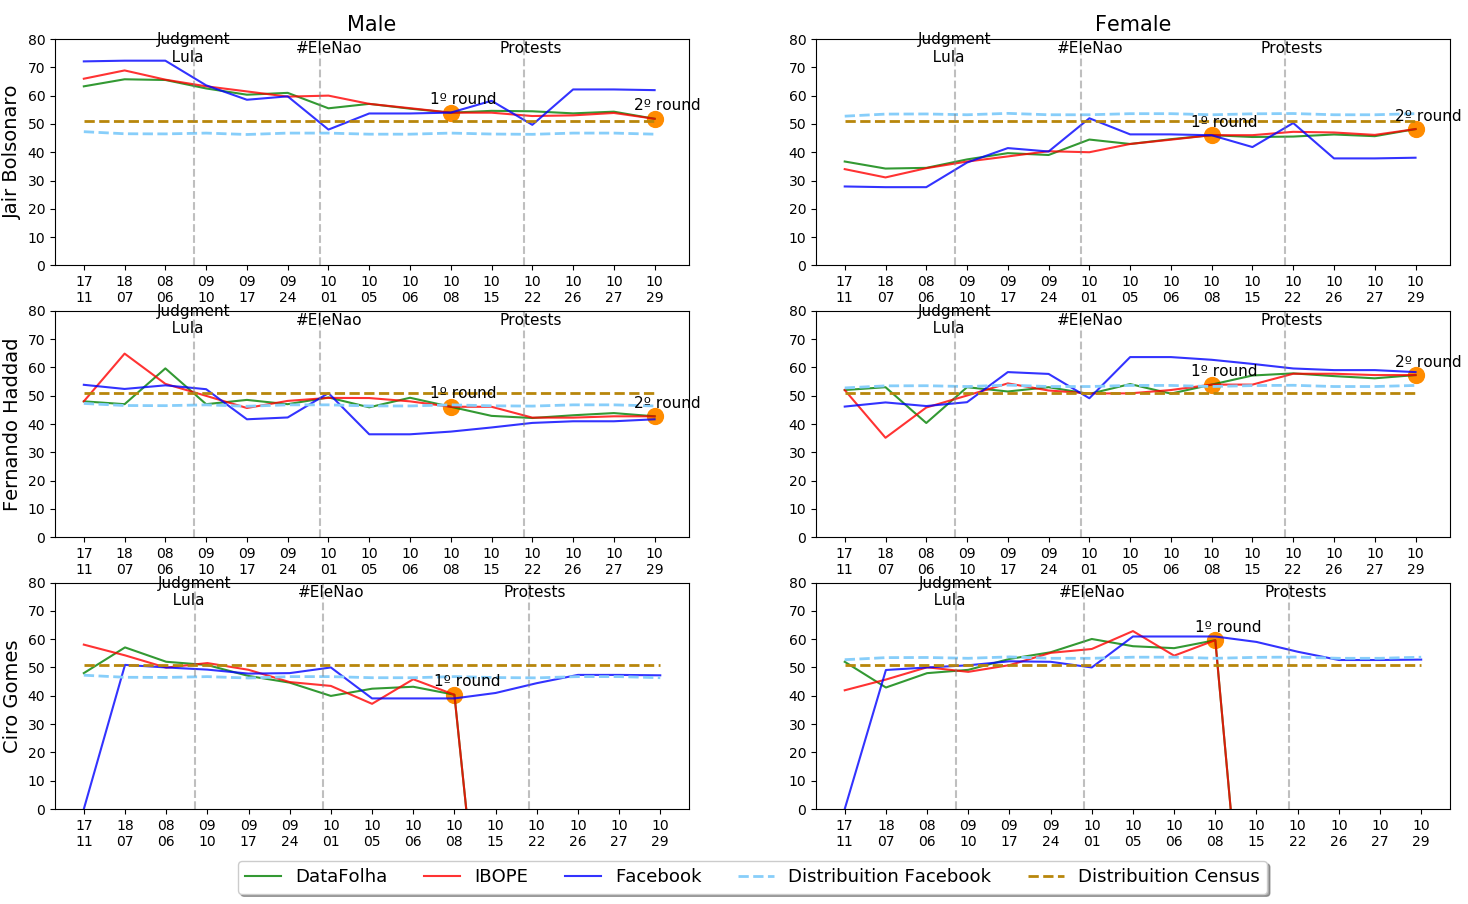
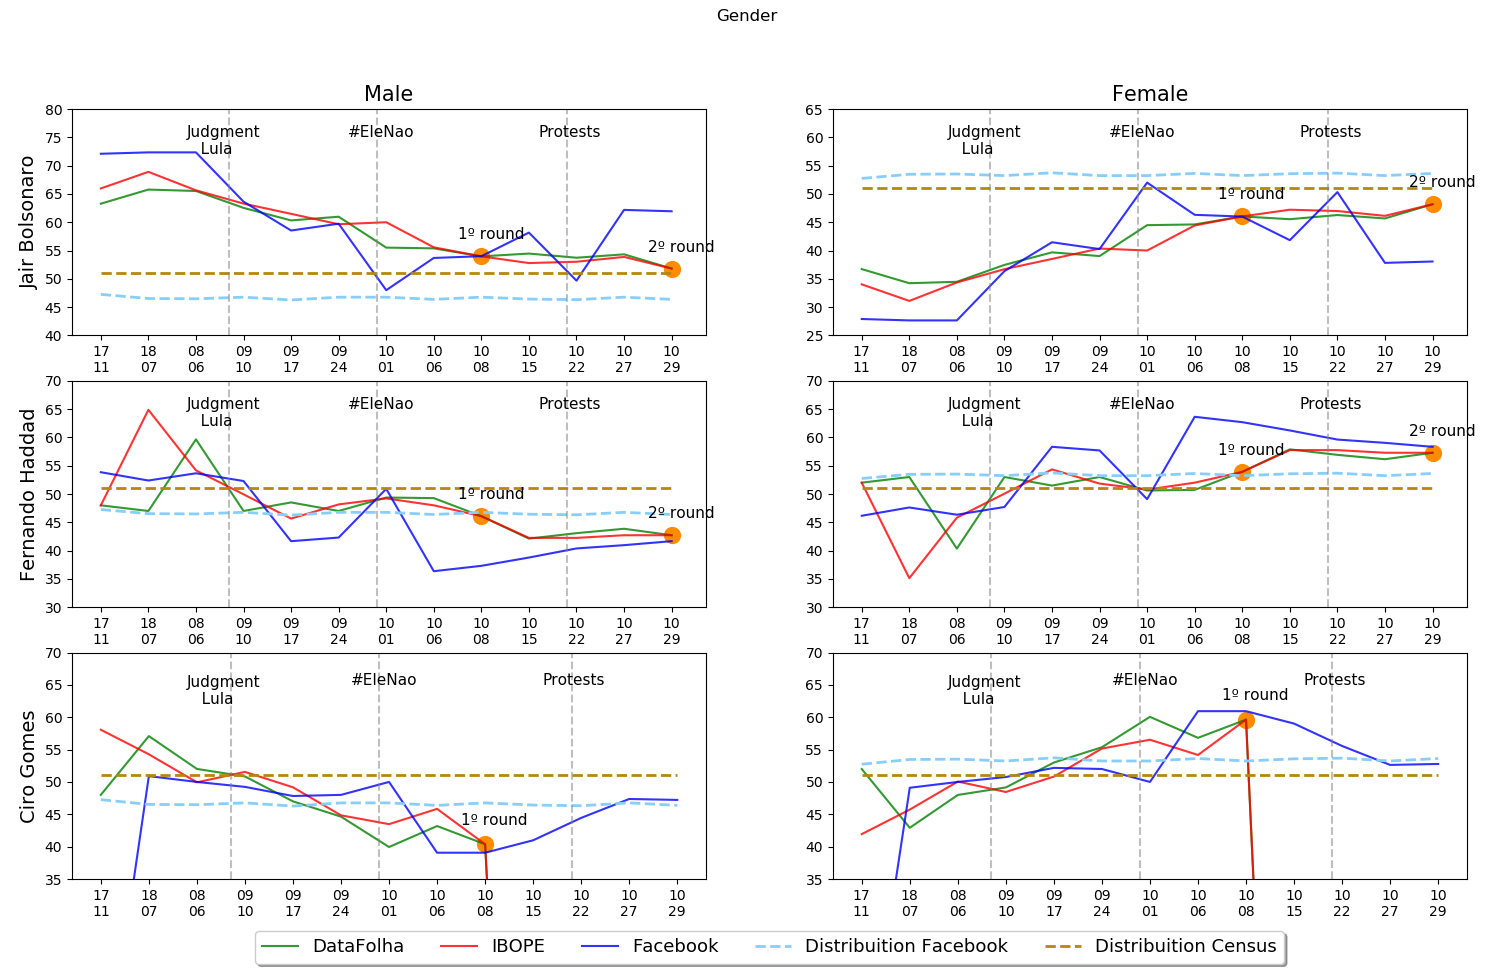
correlacao

diff --git a/Graphics/Code/graphic.py b/Graphics/Code/graphic.py
@@ -1,14 +1,17 @@
 from matplotlib.ticker import FuncFormatter
 import read_elections as election
 from scipy.stats import spearmanr
+from scipy.stats.stats import spearmanr
 import read_facebook as facebook
 import matplotlib.pyplot as plt
+
 import data_frames as GFrame
 import pandas as pd
 import models
 import os
 import numpy as np
 import subprocess
+
 
 xticks = ["17\n11",  "18\n07",  "08\n06",  "09\n10",  "09\n17",  "09\n24",  "10\n01",  "10\n06",  "10\n08",  "10\n15",  "10\n22", "10\n27",  "10\n29"]
 n_xticks = len(xticks)
@@ -345,10 +348,10 @@ def plot_graph(name, data_frame, line, col, range_ini, range_fim, count_x, first
 def plot_gender():   
            
     count_x = len(models.data_reader.candidates[0].dfolha_male)
-    error_1 = plot_graph("gender_1.png", GFrame.Gender.data_frame_1, 3, 2, 0, 80, count_x, "Gender", True, False, True, 18, 10, -0.1, -0.19)
-    plot_graph("gender_1_error.png", error_1, 3, 2, -50, 50, count_x, "Variation Polls", True, False, True, 19, 10,-0.1, -0.19, False, False)
-    error_2 = plot_graph("gender_2.png", GFrame.Gender.data_frame_2, 3, 2, 0, 80, count_x, "Gender", True, False, True, 19, 10, -0.1, -0.19)
-    plot_graph("gender_2_error.png", error_2, 3, 2, -40, 90, count_x, "Variation Polls", True, False, True, 19, 10, -0.1, -0.19, False, False)    
+    error_1 = plot_graph("gender_1.png", GFrame.Gender.data_frame_1, 3, 2, 0, 80, count_x, "Gender", True, False, True, 18, 10, -0.1, -0.19, True, True, 0, [40, 25, 30, 30, 35, 35], [80, 65, 70, 70, 70, 70] )
+    plot_graph("gender_1_error.png", error_1, 3, 2, -50, 50, count_x, "Variation Polls", True, False, True, 19, 10,-0.1, -0.19, False, False, 0, [-20, -30, -30, -20, -20, -20], [40, 40, 40, 40, 40, 40])
+    error_2 = plot_graph("gender_2.png", GFrame.Gender.data_frame_2, 3, 2, 0, 80, count_x, "Gender", True, False, True, 19, 10, -0.1, -0.19, True, True, 0, [30, 45, 30, 40], [70, 75, 70, 70])
+    plot_graph("gender_2_error.png", error_2, 3, 2, -40, 90, count_x, "Variation Polls", True, False, True, 19, 10, -0.1, -0.19, False, False, 0, [-20, -40, -30, -40], [90, 30, 80, 30])    
 
     # for i in v_index:
     #     get_error_agregatte(models.data_reader.candidates[i].facebook_male, models.data_reader.candidates[i].ibope_male, models.data_reader.candidates[i].dfolha_male)
@@ -372,10 +375,10 @@ def plot_region():
     error_4 = plot_graph("region_marina.png", GFrame.Region.data_frame_marina, 2, 2, 5, 60, count_x, "Marina Silva", False, True, True, 18, 10, -0.1, -0.19, True, True, 0, [30, 20, 10, 5], [60, 45, 35, 30])
     plot_graph("region_marina_error.png", error_4, 2, 2, -50, 150, count_x, "Marina Silva - Variation Polls", False, True, True, 18, 10, -0.1, -0.19, False, False, 0, [-20, -40, -40, -15], [40, 30, 50, 140])
 
-    error_5 = plot_graph("region_alckmin.png", GFrame.Region.data_frame_alckmin, 2, 2, 0, 85, count_x, "Geraldo Alckmin", False, True, True, 18, 10, -0.1, -0.19, True, True, 0, [30, 5, 0, 0], [85, 40, 25, 25])
+    error_5 = plot_graph("region_alckmin.png", GFrame.Region.data_frame_alckmin, 2, 2, 0, 85, count_x, "Geraldo Alckmin", False, True, True, 18, 10, -0.1, -0.19, True, True, 0, [40, 5, 0, 0], [80, 45, 25, 25])
     plot_graph("region_alckmin_error.png", error_5, 2, 2, -50, 100, count_x, "Geraldo Alckmin - Variation Polls", False, True, True, 18, 10, -0.1, -0.19, False, False, 0, [-10, -40, -40, -25], [30, 100, 30, 100])
 
-    error_6 = plot_graph("region_alvaro.png", GFrame.Region.data_frame_alvaro, 2, 2, 0, 70, count_x, "Alvaro Dias", False, True, True, 18, 10, -0.1, -0.19, True, True, 0, [10, 0, 0, 10], [60, 40, 30, 70])
+    error_6 = plot_graph("region_alvaro.png", GFrame.Region.data_frame_alvaro, 2, 2, 0, 70, count_x, "Alvaro Dias", False, True, True, 18, 10, -0.1, -0.19, True, True, 0, [10, 0, 0, 10], [55, 45, 30, 70])
     plot_graph("region_alvaro_error.png", error_6, 2, 2, -50, 200, count_x, "Alvaro Dias - Variation Polls", False, True, True, 18, 10, -0.1, -0.19, False, False, 0, [-10, -30, -50, -55], [200, 80, 150, 30])
     
     # plot_graph("region_lula.png", data_frame_lula, 2, 2, 5, 60, count_x, "Lula", False, True, True, 18, 10)
@@ -586,63 +589,68 @@ def cal_correlation():
     #Elenao ate Primeiro Turno - Ruim (5 - 9) ou (6 - 9)
     #Inicio até ele nao - Ruim(0 - 7)
     #Tudo- Ruim(0 - 13)
+    
     for c in models.data_reader.candidates:
-
-        corr, p_value = spearmanr(models.data_reader.candidates[i_ciro].dfolha_male[1:4], models.data_reader.candidates[i_ciro].facebook_male[1:4])
-
+        
         if(c.name not in candidates):
             i = models.return_index(c.name)
+            qtd_ptos = 9
+            pt_ini = 0
 
-            if(False):
-                qtd_ptos = pos_result_2_round + 1
-                pt_ini = 4
-            else:
-                qtd_ptos = 4
-                pt_ini = 0
+            # if(c.name == "Jair Bolsonaro" or c.name == "Fernando Haddad"):
+            #     qtd_ptos = 13
+            #     pt_ini = 0
 
             # if(c.name == "Ciro Gomes"):
+            #     qtd_ptos = 9
             #     pt_ini = 1
 
-            a = models.data_reader.candidates[i].dfolha_male[pt_ini:qtd_ptos]
+            # v = models.data_reader.candidates[i].dfolha_male[pt_ini:qtd_ptos]
+
             print(c.name)
-            corr, p_value = spearmanr(models.data_reader.candidates[i].dfolha_male[pt_ini:qtd_ptos], models.data_reader.candidates[i].facebook_male[pt_ini:qtd_ptos])
-            print('DFolha Male: ' + str(corr))
-            corr, p_value = spearmanr(models.data_reader.candidates[i].dfolha_female[pt_ini:qtd_ptos], models.data_reader.candidates[i].facebook_female[pt_ini:qtd_ptos])
-            print('DFolha Female: ' + str(corr))
-            corr, p_value = spearmanr(models.data_reader.candidates[i].ibope_male[pt_ini:qtd_ptos], models.data_reader.candidates[i].facebook_male[pt_ini:qtd_ptos])
-            print('IBOPE Male: ' + str(corr))
-            corr, p_value = spearmanr(models.data_reader.candidates[i].ibope_female[pt_ini:qtd_ptos], models.data_reader.candidates[i].facebook_female[pt_ini:qtd_ptos])
-            print('IBOPE Female: ' + str(corr))
+            # cal_correlacao_gender(pt_ini, qtd_ptos)
+            # cal_correlacao_region(pt_ini, qtd_ptos)
+            cal_correlacao_facebook(i, pt_ini, qtd_ptos)
+           
+def cal_correlacao_gender(i, pt_ini, qtd_ptos):
+    # corr, p_value = spearmanr(models.data_reader.candidates[i].dfolha_male[pt_ini:qtd_ptos], models.data_reader.candidates[i].facebook_male[pt_ini:qtd_ptos])
+    print('DFolha Male: ' + str(corr))
+    corr, p_value = spearmanr(models.data_reader.candidates[i].dfolha_female[pt_ini:qtd_ptos], models.data_reader.candidates[i].facebook_female[pt_ini:qtd_ptos])
+    print('DFolha Female: ' + str(corr))
+    corr, p_value = spearmanr(models.data_reader.candidates[i].ibope_male[pt_ini:qtd_ptos], models.data_reader.candidates[i].facebook_male[pt_ini:qtd_ptos])
+    print('IBOPE Male: ' + str(corr))
+    corr, p_value = spearmanr(models.data_reader.candidates[i].ibope_female[pt_ini:qtd_ptos], models.data_reader.candidates[i].facebook_female[pt_ini:qtd_ptos])
+    print('IBOPE Female: ' + str(corr))
 
-            # corr, p_value = spearmanr(models.data_reader.candidates[i].dfolha_nordeste[pt_ini:qtd_ptos], models.data_reader.candidates[i].facebook_nordeste[pt_ini:qtd_ptos])
-            # print('DFolha Nordeste: ' + str(corr))
-            # corr, p_value = spearmanr(models.data_reader.candidates[i].ibope_nordeste[pt_ini:qtd_ptos], models.data_reader.candidates[i].facebook_nordeste[pt_ini:qtd_ptos])
-            # print('IBOPE Nordeste: ' + str(corr))
-
-            # corr, p_value = spearmanr(models.data_reader.candidates[i].dfolha_sudeste[pt_ini:qtd_ptos], models.data_reader.candidates[i].facebook_sudeste[pt_ini:qtd_ptos])
-            # print('DFolha Sudeste: ' + str(corr))
-            # corr, p_value = spearmanr(models.data_reader.candidates[i].ibope_sudeste[pt_ini:qtd_ptos], models.data_reader.candidates[i].facebook_sudeste[pt_ini:qtd_ptos])
-            # print('IBOPE Sudeste: ' + str(corr))
-
-            # corr, p_value = spearmanr(models.data_reader.candidates[i].dfolha_sul[pt_ini:qtd_ptos], models.data_reader.candidates[i].facebook_sul[pt_ini:qtd_ptos])
-            # print('DFolha Sul: ' + str(corr))
-            # corr, p_value = spearmanr(models.data_reader.candidates[i].ibope_sul[pt_ini:qtd_ptos], models.data_reader.candidates[i].facebook_sul[pt_ini:qtd_ptos])
-            # print('IBOPE Sul: ' + str(corr))
-
-            # corr, p_value = spearmanr(models.data_reader.candidates[i].dfolha_norte_coeste[pt_ini:qtd_ptos], models.data_reader.candidates[i].facebook_norte_coeste[pt_ini:qtd_ptos])
-            # print('DFolha Centro-Oeste/Norte: ' + str(corr))
-            # corr, p_value = spearmanr(models.data_reader.candidates[i].ibope_norte_coeste[pt_ini:qtd_ptos], models.data_reader.candidates[i].facebook_norte_coeste[pt_ini:qtd_ptos])
-            # print('IBOPE Centro-Oeste/Norte: ' + str(corr))
-
-            # corr, p_value = spearmanr(models.data_reader.candidates[i].facebook_engagement, models.data_reader.candidates[i].facebook_likes)
-            # print('Engajamento/Likes: ' + str(corr)) 
-
-            # corr, p_value = spearmanr(models.data_reader.candidates[i].facebook_talking_about, models.data_reader.candidates[i].facebook_likes)
-            # print('TalkAbout/Likes: ' + str(corr)) 
-
-            # corr, p_value = spearmanr(models.data_reader.candidates[i].facebook_talking_about, models.data_reader.candidates[i].facebook_engagement)
-            # print('TalkAbout/Engajamento: ' + str(corr)) 
-            
+def cal_correlacao_region(i, pt_ini, qtd_ptos):
+    corr, p_value = spearmanr(models.data_reader.candidates[i].dfolha_sudeste[pt_ini:qtd_ptos], models.data_reader.candidates[i].facebook_sudeste[pt_ini:qtd_ptos])
+    print('DFolha Sudeste: ' + str(corr))
+    corr, p_value = spearmanr(models.data_reader.candidates[i].ibope_sudeste[pt_ini:qtd_ptos], models.data_reader.candidates[i].facebook_sudeste[pt_ini:qtd_ptos])
+    print('IBOPE Sudeste: ' + str(corr))
+    corr, p_value = spearmanr(models.data_reader.candidates[i].dfolha_nordeste[pt_ini:qtd_ptos], models.data_reader.candidates[i].facebook_nordeste[pt_ini:qtd_ptos])
+    print('DFolha Nordeste: ' + str(corr))
+    corr, p_value = spearmanr(models.data_reader.candidates[i].ibope_nordeste[pt_ini:qtd_ptos], models.data_reader.candidates[i].facebook_nordeste[pt_ini:qtd_ptos])
+    print('IBOPE Nordeste: ' + str(corr))
     
-    # corr, p_value = spearmanr(models.data_reader.candidates[i_alvaro].dfolha_male, models.data_reader.candidates[i_ciro].facebook_male)
-    # print(corr)
+    corr, p_value = spearmanr(models.data_reader.candidates[i].dfolha_norte_coeste[pt_ini:qtd_ptos], models.data_reader.candidates[i].facebook_norte_coeste[pt_ini:qtd_ptos])
+    print('DFolha Centro-Oeste/Norte: ' + str(corr))
+    corr, p_value = spearmanr(models.data_reader.candidates[i].ibope_norte_coeste[pt_ini:qtd_ptos], models.data_reader.candidates[i].facebook_norte_coeste[pt_ini:qtd_ptos])
+    print('IBOPE Centro-Oeste/Norte: ' + str(corr))
+    corr, p_value = spearmanr(models.data_reader.candidates[i].dfolha_sul[pt_ini:qtd_ptos], models.data_reader.candidates[i].facebook_sul[pt_ini:qtd_ptos])
+    print('DFolha Sul: ' + str(corr))
+    corr, p_value = spearmanr(models.data_reader.candidates[i].ibope_sul[pt_ini:qtd_ptos], models.data_reader.candidates[i].facebook_sul[pt_ini:qtd_ptos])
+    print('IBOPE Sul: ' + str(corr))
+
+def cal_correlacao_facebook(i, pt_ini, qtd_ptos):
+    # corr, p_value = spearmanr(models.data_reader.candidates[i].facebook_engagement[pt_ini:qtd_ptos], models.data_reader.candidates[i].facebook_likes[pt_ini:qtd_ptos])
+    # print('Engajamento/Likes: ' + str(corr))
+    # corr, p_value = spearmanr(models.data_reader.candidates[i].facebook_talking_about[pt_ini:qtd_ptos], models.data_reader.candidates[i].facebook_likes[pt_ini:qtd_ptos])
+    # print('TalkAbout/Likes: ' + str(corr))
+    # corr, p_value = spearmanr(models.data_reader.candidates[i].facebook_talking_about[pt_ini:qtd_ptos], models.data_reader.candidates[i].facebook_engagement[pt_ini:qtd_ptos])
+    # print('TalkAbout/Engajamento: ' + str(corr))
+
+    corr, p_value = spearmanr(models.data_reader.candidates[i].dfolha_score[pt_ini:qtd_ptos], models.data_reader.candidates[i].facebook_talking_about[pt_ini:qtd_ptos])
+    print('Dfolha: ' + str(corr))
+    corr, p_value = spearmanr(models.data_reader.candidates[i].ibope_score[pt_ini:qtd_ptos], models.data_reader.candidates[i].facebook_talking_about[pt_ini:qtd_ptos])
+    print('Ibope: ' + str(corr)) 
+            

diff --git a/Graphics/Code/read_elections.py b/Graphics/Code/read_elections.py
@@ -20,7 +20,7 @@ def read_json(comLula):
         for candidate in data['candidates']:
 
             i = models.return_index(candidate['name'])
-
+            
             if(i >= 0):
                 if(data['institute'] == 'DataFolha' or data['institute'] == 'Resultado'):             
                     if (data["date"] in data_dfolha):   
@@ -41,6 +41,8 @@ def read_json(comLula):
                         models.data_reader.candidates[i].dfolha_fundamental.append(candidate['education_status']['elementary_school'])  
                         models.data_reader.candidates[i].dfolha_medio.append(candidate['education_status']['high_school'])
                         models.data_reader.candidates[i].dfolha_superior.append(candidate['education_status']['higher_education']) 
+
+                        models.data_reader.candidates[i].dfolha_score.append(candidate['score'])
                         
                 if (data['institute'] == 'IBOPE' or data['institute'] == 'Resultado'): 
                     if (data["date"] in data_ibope):
@@ -61,6 +63,8 @@ def read_json(comLula):
                         models.data_reader.candidates[i].ibope_fundamental.append(candidate['education_status']['elementary_school'])  
                         models.data_reader.candidates[i].ibope_medio.append(candidate['education_status']['high_school'])
                         models.data_reader.candidates[i].ibope_superior.append(candidate['education_status']['higher_education']) 
+
+                        models.data_reader.candidates[i].ibope_score.append(candidate['score'])
 
              # #Repete o resultado da eleição no próximo ponto
                 # if(data['institute'] == 'Resultado'):                        

diff --git a/Graphics/Code/models.py b/Graphics/Code/models.py
@@ -191,3 +191,5 @@ def complete_data_zero():
             c.dfolha_medio.append(-100)
             c.dfolha_superior.append(-100) 
 
+            c.ibope_score.append(-100)
+            c.dfolha_score.append(-100)
